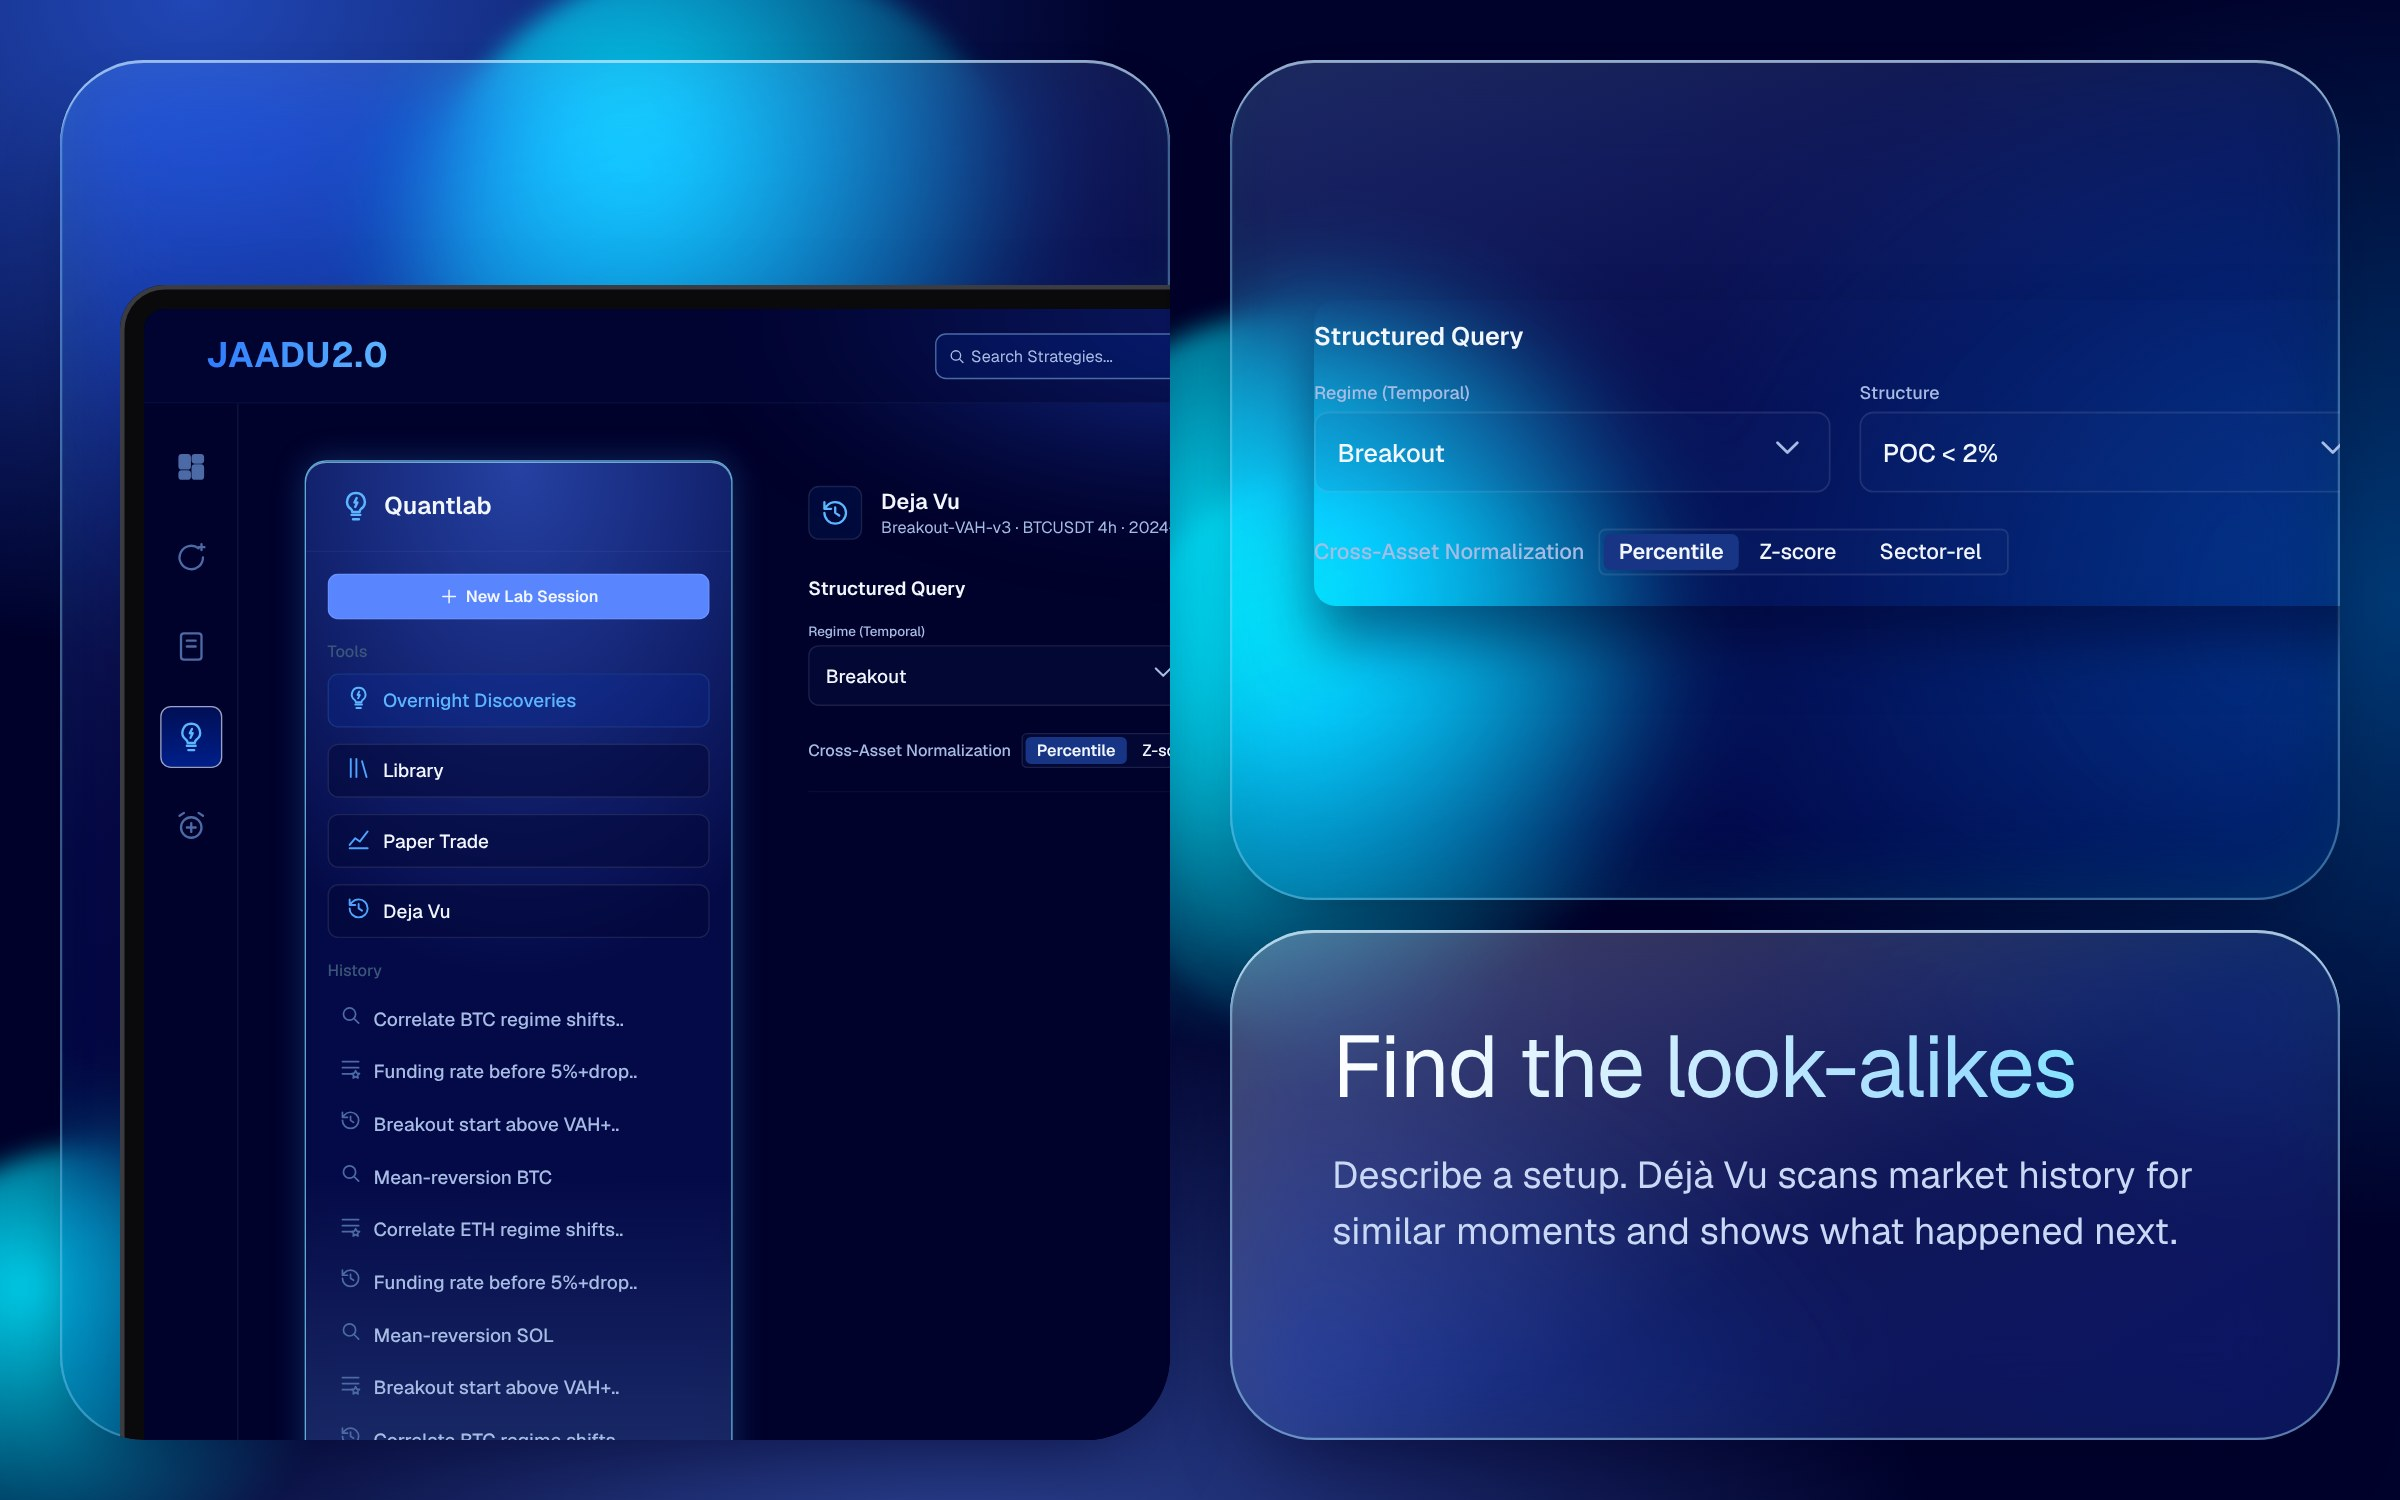
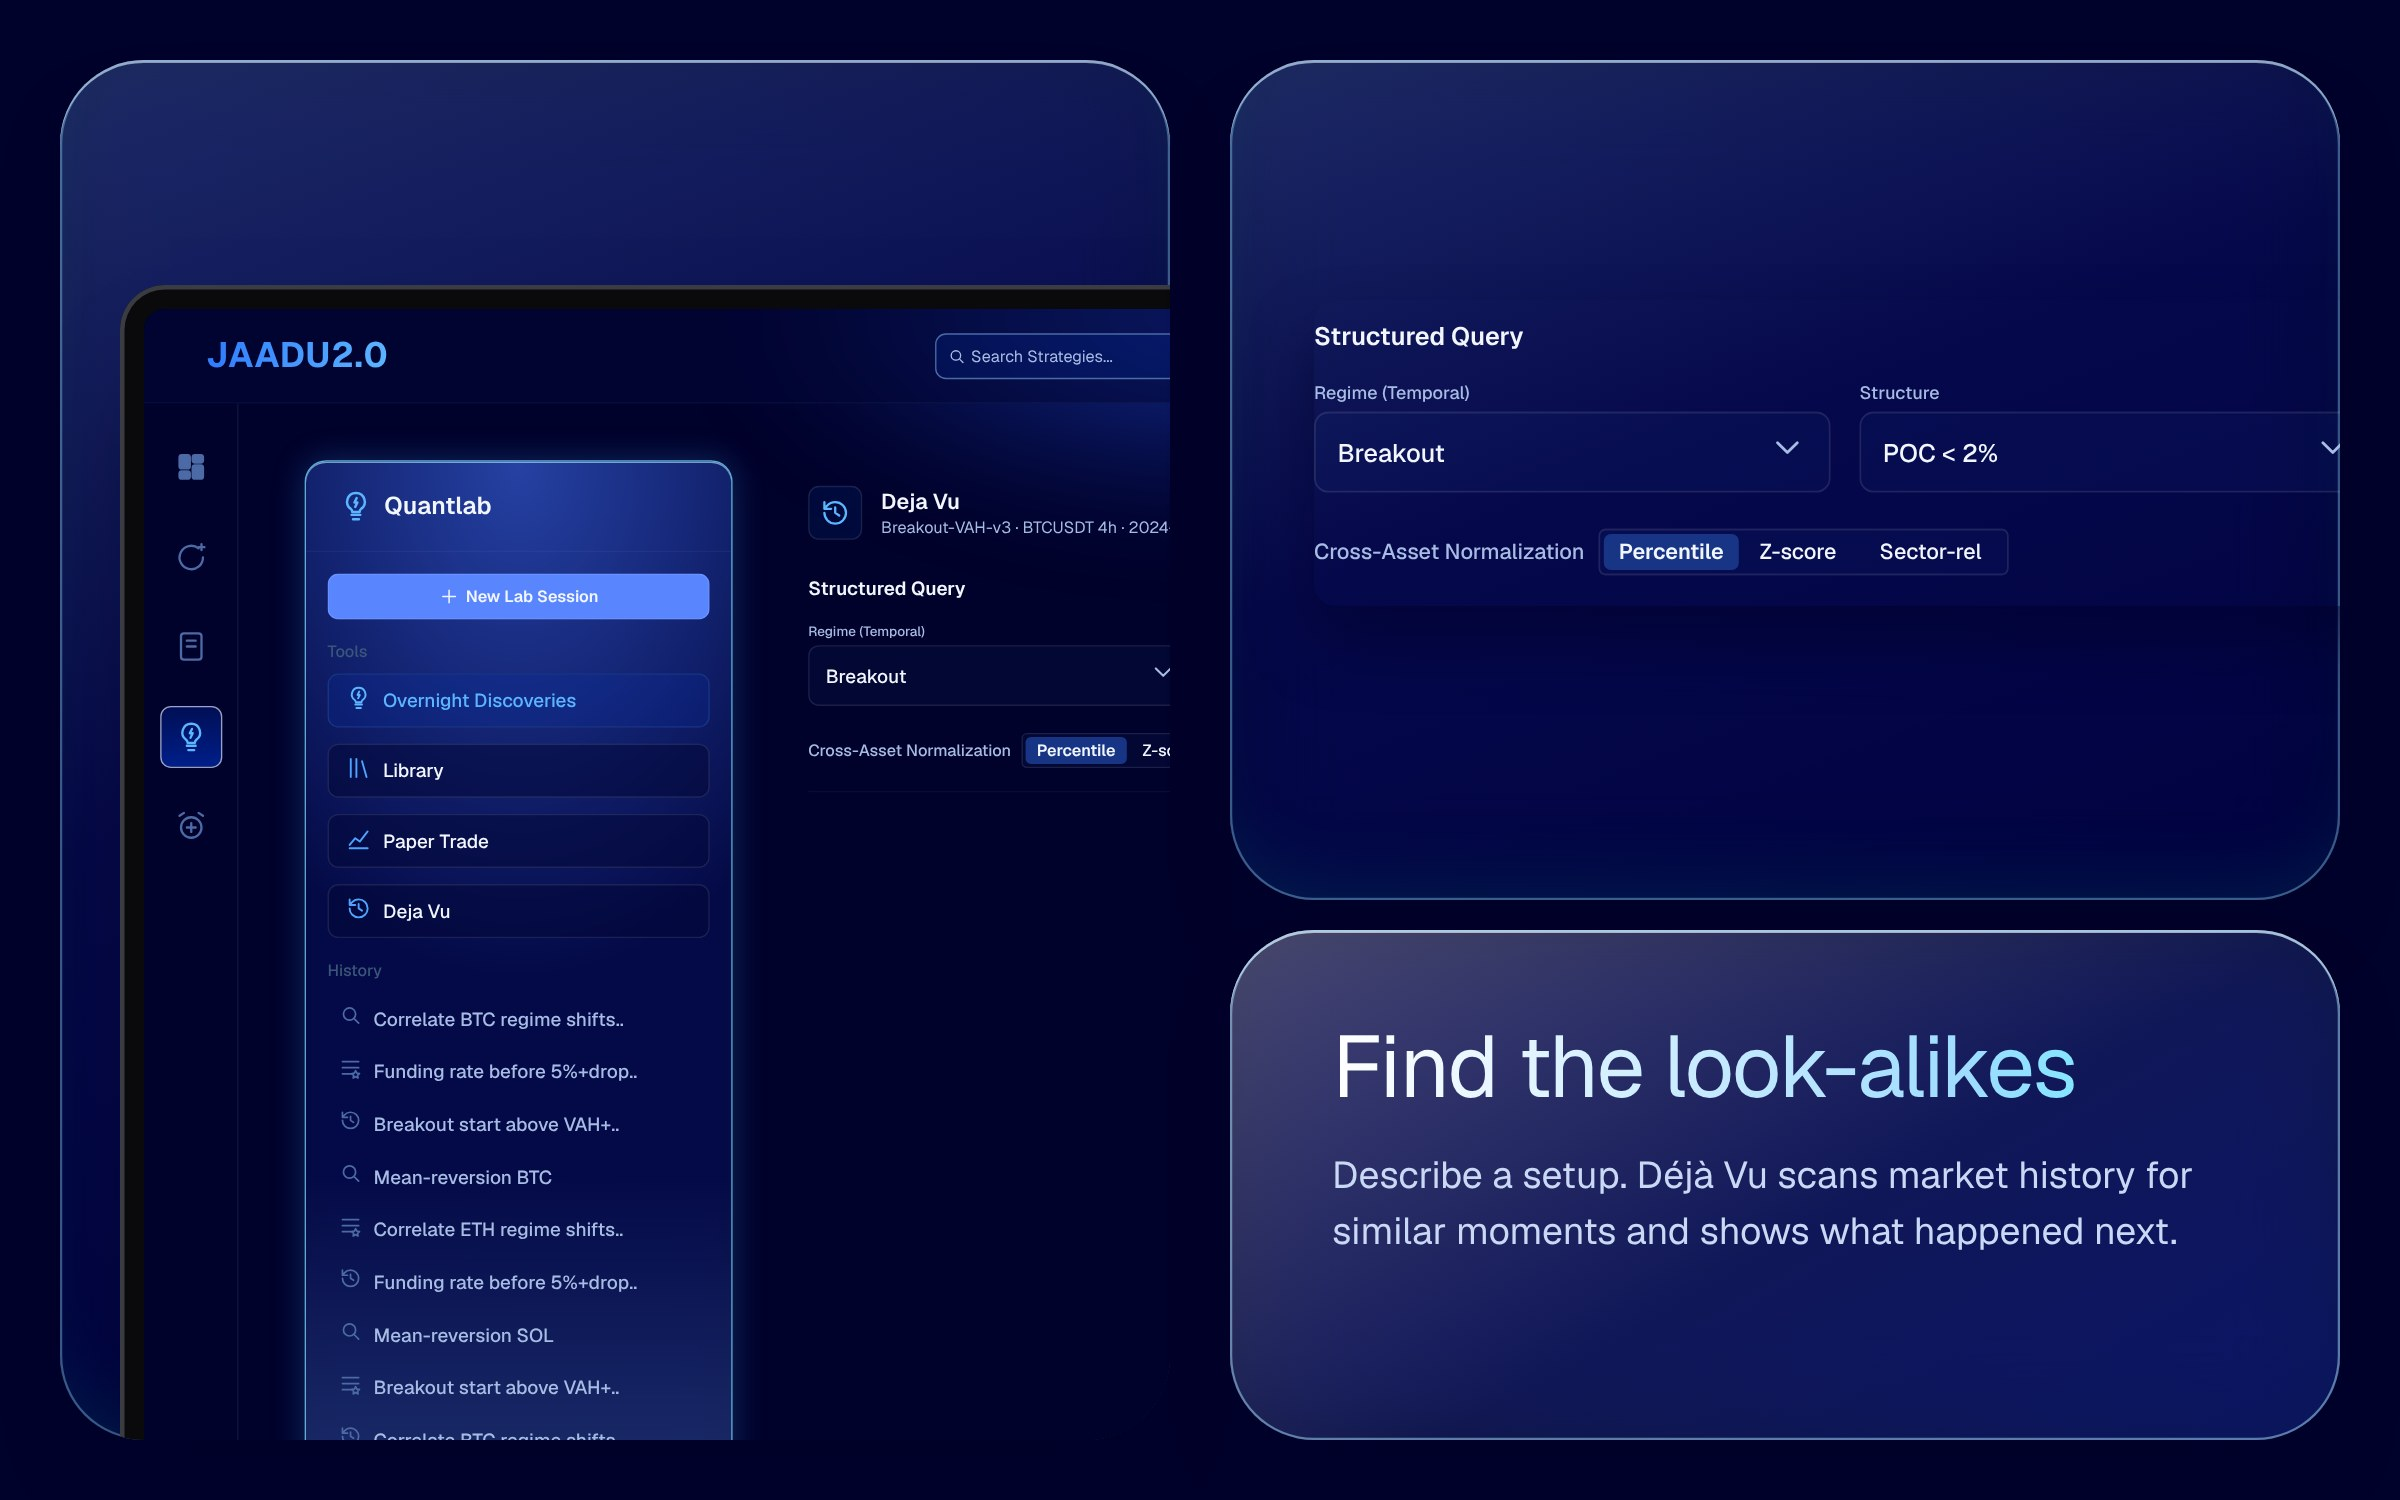
Jaadu modules: solid dark ground
Claude-Session: https://claude.ai/code/session_01L48ecgvWMXiCwrAdC3aGTG

diff --git a/scripts/mockups/jaadu/modules.html b/scripts/mockups/jaadu/modules.html
@@ -8,7 +8,7 @@
 @font-face{font-family:'IBM Plex Mono';font-weight:400;src:url(node_modules/@fontsource/ibm-plex-mono/files/ibm-plex-mono-latin-400-normal.woff2)}
 @font-face{font-family:'IBM Plex Mono';font-weight:500;src:url(node_modules/@fontsource/ibm-plex-mono/files/ibm-plex-mono-latin-500-normal.woff2)}
 body{margin:0;background:#fff}
-.mod{position:relative;width:1600px;overflow:hidden;font-family:Geist,sans-serif;margin:0 0 60px;background:radial-gradient(1000px 700px at 8% 0%,rgba(38,83,207,.85),transparent 62%),radial-gradient(900px 700px at 100% 40%,rgba(0,160,255,.35),transparent 60%),radial-gradient(1100px 800px at 40% 110%,rgba(89,133,255,.55),transparent 60%),#00022B}
+.mod{position:relative;width:1600px;overflow:hidden;font-family:Geist,sans-serif;margin:0 0 60px;background:#00022B}
 .orb{position:absolute;border-radius:50%;filter:blur(8px);pointer-events:none}
 .plate{position:absolute;overflow:hidden;border-radius:56px;background:linear-gradient(160deg,rgba(130,190,255,.22),rgba(60,100,230,.08) 45%,rgba(0,10,80,.18));backdrop-filter:blur(34px) saturate(1.5);-webkit-backdrop-filter:blur(34px) saturate(1.5);box-shadow:inset 0 0 0 1.5px rgba(150,215,255,.38),inset 0 2px 0 rgba(255,255,255,.5),inset 0 -30px 60px -30px rgba(0,255,255,.12),0 30px 60px -30px rgba(0,0,40,.7)}
 .block{position:absolute;border-radius:56px;background:linear-gradient(150deg,rgba(255,255,255,.28),rgba(130,190,255,.12) 55%,rgba(38,83,207,.25));backdrop-filter:blur(34px) saturate(1.6);-webkit-backdrop-filter:blur(34px) saturate(1.6);color:#F1F6FF;padding:60px 68px;box-sizing:border-box;box-shadow:inset 0 0 0 1.5px rgba(170,225,255,.5),inset 0 2px 0 rgba(255,255,255,.6),0 30px 60px -30px rgba(0,0,40,.7)}
@@ -33,7 +33,7 @@ const plate=(l,t,w,h,inner)=>`<div class="plate" style="left:${l}px;top:${t}px;w
 const block=(l,t,w,h,a,b)=>`<div class="block" style="left:${l}px;top:${t}px;width:${w}px;height:${h}px"><h3>${a}</h3><p>${b}</p></div>`
 const call=(w,h,x1,y1,x2,y2,c,txt,cx,cy)=>`<svg class="dl" width="${w}" height="${h}"><path d="M${x1} ${y1} L${x2} ${y2}" fill="none" stroke="#7F93C4" stroke-width="3" stroke-dasharray="3 9" stroke-linecap="round"/><circle cx="${x1}" cy="${y1}" r="9" fill="${c}" stroke="#fff" stroke-width="3"/></svg><div class="chip" style="--c:${c};left:${cx}px;top:${cy}px"><i></i>${txt}</div>`
 let MI=0;const ORB=[['#00E5FF',.9],['#5985FF',.95],['#7B5CFF',.8],['#45FFB5',.55]]
-const mod=(id,h,inner)=>{const r=(n)=>{MI++;return ((Math.sin(MI*12.9898+n*78.233)*43758.5453)%1+1)%1};let o='';for(let i=0;i<4;i++){const c=ORB[(MI+i)%4],d=300+r(i)*260;o+=`<div class="orb" style="left:${r(1+i)*1500-d/2}px;top:${r(5+i)*(h-100)-d/3}px;width:${d}px;height:${d}px;background:radial-gradient(circle at 35% 30%,${c[0]},rgba(0,0,0,0) 72%);opacity:${c[1]}"></div>`}return `<div class="mod" id="${id}" style="height:${h}px">${o}${inner}</div>`}
+const mod=(id,h,inner)=>{const r=(n)=>{MI++;return ((Math.sin(MI*12.9898+n*78.233)*43758.5453)%1+1)%1};let o='';for(let i=0;i<4;i++){const c=ORB[(MI+i)%4],d=300+r(i)*260;o+=`<div class="orb" style="left:${r(1+i)*1500-d/2}px;top:${r(5+i)*(h-100)-d/3}px;width:${d}px;height:${d}px;background:radial-gradient(circle at 35% 30%,${c[0]},rgba(0,0,0,0) 72%);opacity:${c[1]}"></div>`}return `<div class="mod" id="${id}" style="height:${h}px">${inner}</div>`}
 const N='box-shadow:none;overflow:visible';const M=[]
 // 1 spread: overnight (standout)
 M.push(mod('m-overnight',1000,
